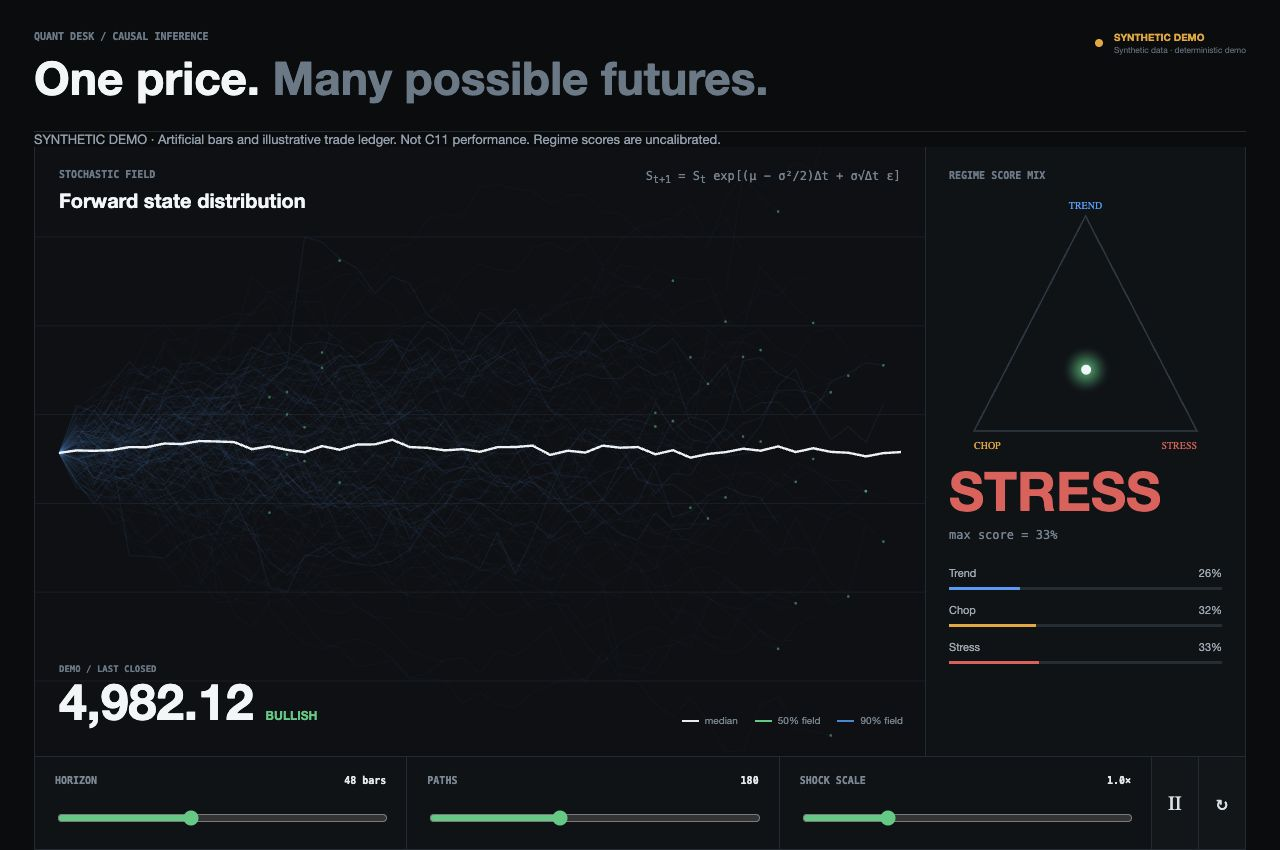
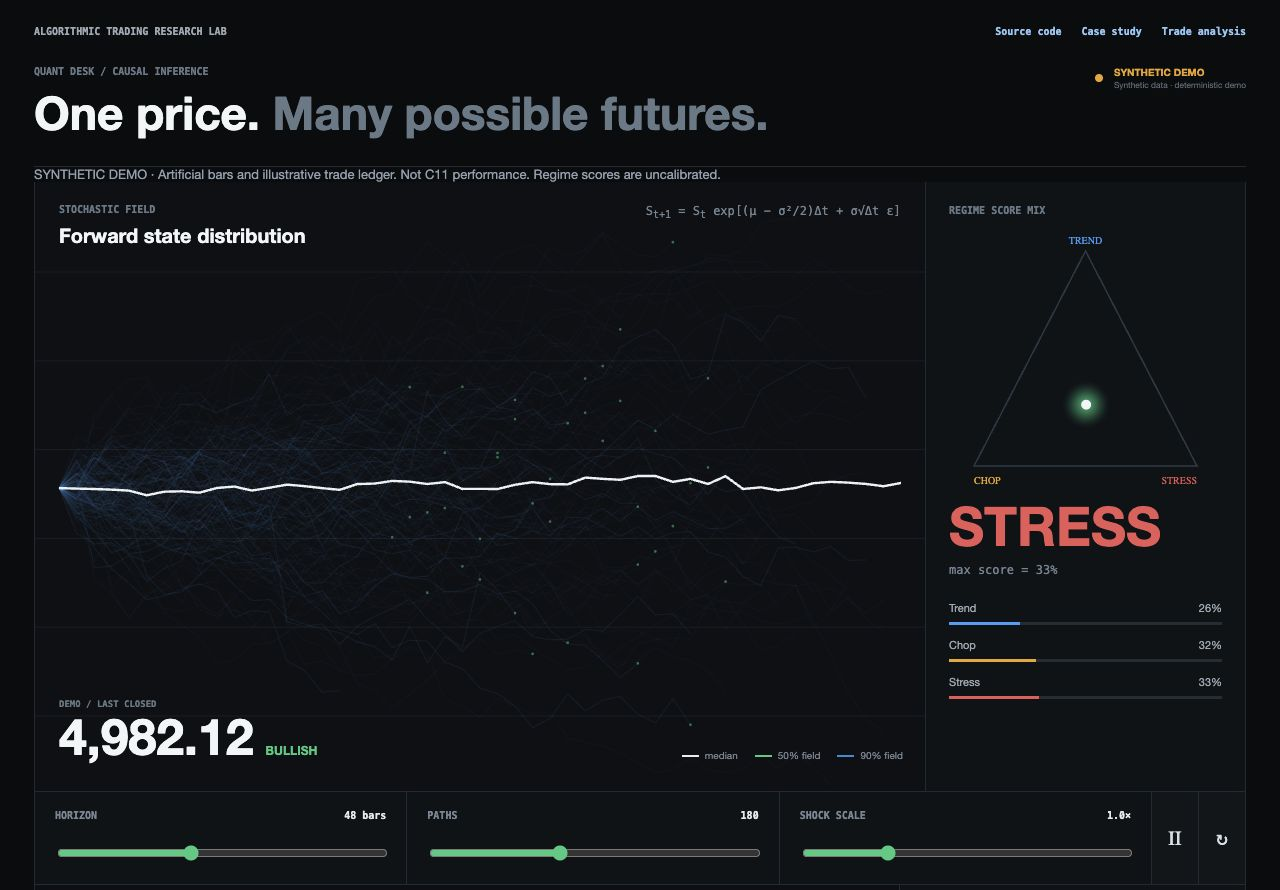
Publish interactive portfolio demo and strategy research walkthrough

diff --git a/dashboard/studio/studio.js b/dashboard/studio/studio.js
@@ -23,8 +23,8 @@ function factorRow(name,value,color,detail){return `<div class="factor-row"><spa
 function updateTrader(){if(!traderPayload)return;let s=traderPayload.stats,b=traderPayload.best_trade,w=traderPayload.worst_trade;$('strategySource').textContent=traderPayload.demo?'SYNTHETIC LEDGER':traderPayload.live?'LIVE TRADINGVIEW':'LOCAL SNAPSHOT';$('strategySource').className=`source-pill ${traderPayload.live?'':'snapshot'}`;$('netPnl').textContent=money(s.net_profit);$('netPnl').style.color=s.net_profit>=0?colors.green:colors.stress;$('netReturn').textContent=`${(100*s.net_profit_percent).toFixed(2)}% return`;$('profitFactor').textContent=s.profit_factor.toFixed(3);$('winRate').textContent=pct(s.win_rate);$('maxDrawdown').textContent=money(-s.max_drawdown);$('maxDrawdownPct').textContent=pct(s.max_drawdown_percent);$('expectancy').textContent=money(s.expectancy);$('sharpe').textContent=s.sharpe==null?'—':s.sharpe.toFixed(2);$('avgWin').textContent=money(s.avg_win);$('avgLoss').textContent=money(s.avg_loss);$('payoff').textContent=`${s.payoff_ratio.toFixed(2)}×`;$('bestPnl').textContent=money(b.pnl);$('bestMeta').textContent=`${b.sleeve} · ${b.direction} · ${b.exit_time.slice(0,10)}`;$('bestExcursion').textContent=`RUN-UP ${money(b.runup)} · DRAW-DOWN ${money(-b.drawdown)} · ${b.bars ?? "—"} BARS`;$('worstPnl').textContent=money(w.pnl);$('worstMeta').textContent=`${w.sleeve} · ${w.direction} · ${w.exit_time.slice(0,10)}`;$('worstExcursion').textContent=`RUN-UP ${money(w.runup)} · DRAW-DOWN ${money(-w.drawdown)} · ${w.bars ?? "—"} BARS`;$('streaks').textContent=`${s.max_win_streak} / ${s.max_loss_streak}`;$('currentStreak').textContent=`CURRENT ${s.current_streak>=0?'WIN':'LOSS'} STREAK ${Math.abs(s.current_streak)}`;$('commission').textContent=money(s.commission);$('recovery').textContent=`RECOVERY FACTOR ${s.recovery_factor.toFixed(2)}× · AVG HOLD ${s.avg_bars.toFixed(1)} BARS`;$('tradeCount').textContent=`${s.trades} CLOSED · ${s.wins} W / ${s.losses} L`;$('sleeveRows').innerHTML=traderPayload.sleeves.map(x=>`<div class="sleeve-row"><span>${x.name}</span><i><b style="width:${Math.min(100,Math.abs(x.pnl)/Math.max(...traderPayload.sleeves.map(y=>Math.abs(y.pnl)))*100)}%;background:${x.pnl>=0?colors.green:colors.stress}"></b></i><strong>${money(x.pnl)} · ${pct(x.win_rate)}</strong></div>`).join('');$('tradeRows').innerHTML=traderPayload.recent_trades.map(x=>`<tr><td>${x.number}</td><td>${x.exit_time.slice(0,16).replace('T',' ')}</td><td>${x.sleeve}</td><td>${x.direction}</td><td>${x.entry_price.toFixed(2)}</td><td>${x.exit_price.toFixed(2)}</td><td>${x.bars ?? "—"}</td><td>${money(x.runup)}</td><td>${money(-x.drawdown)}</td><td class="${x.pnl>=0?'positive':'negative'}">${money(x.pnl)}</td></tr>`).join('');drawEquity();drawDistribution();updateDecisionFactors();}
 function updateDecisionFactors(){if(!payload)return;let s=payload.snapshot,items=[['Trend support',s.trend_probability,colors.trend,pct(s.trend_probability)],['Directional confidence',s.direction_probability,colors.green,pct(s.direction_probability)],['Chop penalty',s.chop_probability,colors.chop,`−${pct(.15*s.chop_probability)}`],['Stress penalty',s.stress_probability,colors.stress,`−${pct(.65*s.stress_probability)}`],['Simulated fragility',fragility,fragility>.35?colors.stress:colors.green,pct(fragility)]];$('decisionFactors').innerHTML=items.map(x=>factorRow(...x)).join('');}
 function updateUI(){let s=payload.snapshot;$('instrumentLabel').textContent=`${payload.symbol} / LAST CLOSED`;$('demoNotice').textContent=payload.demo?'SYNTHETIC DEMO · Artificial bars and illustrative trade ledger. Not C11 performance. Regime scores are uncalibrated.':'Research illustration · Regime scores are uncalibrated; simulated paths are scenarios.';$('price').textContent=s.price.toLocaleString(undefined,{minimumFractionDigits:2,maximumFractionDigits:2});$('direction').textContent=s.direction;$('direction').style.color=s.direction==='BULLISH'?colors.green:colors.stress;$('stateName').textContent=s.state;$('stateName').style.color=colors[s.state.toLowerCase()];$('posterior').textContent=`max score = ${pct(s.confidence)}`;[['trend',s.trend_probability],['chop',s.chop_probability],['stress',s.stress_probability]].forEach(([n,v])=>{$(`${n}Value`).textContent=pct(v);$(`${n}Bar`).style.width=pct(v)});$('directionProbability').textContent=pct(s.direction_probability);$('directionLabel').textContent=s.direction;$('volatility').textContent=pct(s.volatility_percentile);$('exposure').textContent=pct(s.risk_multiplier);$('confidence').textContent=pct(s.confidence);$('timestamp').textContent=`CLOSED ${s.timestamp}`;let fs=$('feedState');fs.className=`feed ${payload.live?'live':'degraded'}`;fs.querySelector('b').textContent=payload.demo?'SYNTHETIC DEMO':payload.live?'LIVE':'SNAPSHOT';fs.querySelector('small').textContent=payload.source;updateDecision();}
-async function poll(){try{let r=await fetch('/api/live',{cache:'no-store'});payload=await r.json();if(!payload.ok)throw Error(payload.error);updateUI();resample();drawSimplex();drawHistory();}catch(e){let fs=$('feedState');fs.className='feed offline';fs.querySelector('b').textContent='OFFLINE';fs.querySelector('small').textContent=e.message;}}
-async function pollTrader(){try{let r=await fetch('/api/trader',{cache:'no-store'});traderPayload=await r.json();if(!traderPayload.ok)throw Error('strategy report unavailable');updateTrader();}catch(e){$('strategySource').textContent='REPORT OFFLINE';$('strategySource').className='source-pill snapshot';}}
+async function poll(){try{let r=await fetch(document.documentElement.dataset.liveUrl || '/api/live',{cache:'no-store'});payload=await r.json();if(!payload.ok)throw Error(payload.error);updateUI();resample();drawSimplex();drawHistory();}catch(e){let fs=$('feedState');fs.className='feed offline';fs.querySelector('b').textContent='OFFLINE';fs.querySelector('small').textContent=e.message;}}
+async function pollTrader(){try{let r=await fetch(document.documentElement.dataset.traderUrl || '/api/trader',{cache:'no-store'});traderPayload=await r.json();if(!traderPayload.ok)throw Error('strategy report unavailable');updateTrader();}catch(e){$('strategySource').textContent='REPORT OFFLINE';$('strategySource').className='source-pill snapshot';}}
 ['horizon','paths','shock'].forEach(id=>$(id).addEventListener('input',()=>{$(`${id}Out`).textContent=id==='horizon'?`${$(id).value} bars`:id==='shock'?`${(+$(id).value/100).toFixed(1)}×`:$(id).value;resample();}));
 $('play').onclick=()=>{running=!running;$('play').textContent=running?'Ⅱ':'▶';$('play').setAttribute('aria-label',running?'Pause animation':'Resume animation');};$('resample').onclick=resample;
 document.querySelectorAll('.range-control button').forEach(button=>button.onclick=()=>{document.querySelectorAll('.range-control button').forEach(x=>x.classList.remove('active'));button.classList.add('active');equityRange=button.dataset.range;drawEquity();});

diff --git a/dashboard/studio/index.html b/dashboard/studio/index.html
@@ -3,13 +3,15 @@
 <head>
   <meta charset="utf-8">
   <meta name="viewport" content="width=device-width,initial-scale=1">
-  <meta name="application-name" content="ES Probability Studio">
+  <meta name="application-name" content="Algorithmic Trading Research Lab">
+  <meta name="description" content="Python and Pine Script strategy research, execution modeling, and interactive risk analysis. Explore a reproducible synthetic-data dashboard.">
   <meta name="apple-mobile-web-app-capable" content="yes">
-  <title>ES Probability Studio</title>
+  <title>Algorithmic Trading Research Lab: Python &amp; Pine Script</title>
   <link rel="stylesheet" href="/studio-assets/studio.css?v=5">
 </head>
 <body>
   <div id="app" role="application">
+    <nav class="portfolio-nav" aria-label="Project navigation"><span>ALGORITHMIC TRADING RESEARCH LAB</span><div><a href="https://github.com/jnaggud/quant-research-lab">Source code</a><a href="https://github.com/jnaggud/quant-research-lab/blob/main/docs/portfolio-case-study.md">Case study</a><a href="#performance">Trade analysis</a></div></nav>
     <header>
       <div>
         <div class="eyebrow">QUANT DESK / CAUSAL INFERENCE</div>

diff --git a/dashboard/studio/studio.css b/dashboard/studio/studio.css
@@ -2,6 +2,10 @@
 * { box-sizing:border-box; }
 body { margin:0; background:#06090c; overflow-x:hidden; }
 #app { max-width:1720px; min-height:100vh; margin:auto; padding:24px 34px 42px; }
+.portfolio-nav { display:flex; justify-content:space-between; flex-wrap:wrap; gap:14px; padding-bottom:20px; color:#a8b3bc; font:700 10px/1.5 ui-monospace,SFMono-Regular,Menlo,monospace; }
+.portfolio-nav div { display:flex; gap:20px; flex-wrap:wrap; }
+.portfolio-nav a { color:#9acff5; text-decoration:none; }
+.portfolio-nav a:hover, .portfolio-nav a:focus-visible { color:#fff; text-decoration:underline; }
 header { min-height:108px; display:flex; justify-content:space-between; align-items:flex-start; border-bottom:1px solid #25303a; padding:7px 0 24px; }
 .eyebrow { color:#738491; font:700 10px/1.2 ui-monospace,SFMono-Regular,Menlo,monospace; }
 h1 { margin:12px 0 0; font-size:46px; line-height:1; font-weight:630; letter-spacing:0; }

diff --git a/dashboard/export_demo.py b/dashboard/export_demo.py
@@ -1,0 +1,49 @@
+"""Export the synthetic studio as a static site with no server or credentials."""
+from __future__ import annotations
+
+import argparse
+import json
+from pathlib import Path
+import shutil
+
+from dashboard.demo import live_payload, synthetic_report
+from dashboard.trader_metrics import summarize_report
+
+
+def export_site(output: Path) -> None:
+    """Write only public assets and freshly generated synthetic payloads."""
+    studio = Path(__file__).resolve().parent / "studio"
+    output = output.resolve()
+    if output == studio or studio in output.parents:
+        raise ValueError("Export into a separate directory, not the studio source.")
+    assets = output / "studio-assets"
+    assets.mkdir(parents=True, exist_ok=True)
+    for name in ("studio.css", "studio.js"):
+        shutil.copyfile(studio / name, assets / name)
+    html = (studio / "index.html").read_text()
+    html = html.replace('<html lang="en">', '<html lang="en" data-live-url="./fixtures/live.json" data-trader-url="./fixtures/trader.json">')
+    html = html.replace('"/studio-assets/', '"./studio-assets/')
+    (output / "index.html").write_text(html)
+    fixtures = output / "fixtures"
+    fixtures.mkdir(exist_ok=True)
+    report = synthetic_report()
+    payloads = {
+        "live": live_payload(),
+        "trader": {"ok": True, "live": False, "demo": True,
+                   "source": "Synthetic ledger · illustrative results",
+                   "strategy": report["source"]["name"], **summarize_report(report)},
+    }
+    for name, payload in payloads.items():
+        (fixtures / f"{name}.json").write_text(json.dumps(payload, allow_nan=False))
+
+
+def main() -> None:
+    parser = argparse.ArgumentParser(description=__doc__)
+    parser.add_argument("--output", type=Path, required=True)
+    args = parser.parse_args()
+    export_site(args.output)
+    print(f"Synthetic demo exported to {args.output.resolve()}")
+
+
+if __name__ == "__main__":
+    main()

diff --git a/tests/test_demo.py b/tests/test_demo.py
@@ -1,5 +1,6 @@
 """Public demo checks: offline operation, data integrity, and report reconciliation."""
 import subprocess
+import json
 import numpy as np
 import pytest
 from dashboard.demo import synthetic_bars, synthetic_report
@@ -43,3 +44,24 @@ def test_live_mode_does_not_silently_substitute_demo(monkeypatch):
     report = app.test_client().get("/api/trader").get_json()
     assert not report["ok"] and not report["live"]
     assert not report.get("demo")
+
+
+def test_static_export_keeps_synthetic_inputs_even_in_live_environment(tmp_path, monkeypatch):
+    from dashboard.export_demo import export_site
+    monkeypatch.setenv("DASHBOARD_MODE", "live")
+    private_report = tmp_path / "private.json"
+    private_report.write_text('{"private_marker": "must-not-be-published"}')
+    monkeypatch.setenv("QUANT_TV_REPORT_FILE", str(private_report))
+    output = tmp_path / "site"
+    export_site(output)
+    html = (output / "index.html").read_text()
+    assert 'data-live-url="./fixtures/live.json"' in html
+    assert 'data-trader-url="./fixtures/trader.json"' in html
+    assert '"/studio-assets/' not in html
+    for name in ("live", "trader"):
+        text = (output / "fixtures" / f"{name}.json").read_text()
+        payload = json.loads(text)
+        assert payload["ok"] and payload["demo"] and not payload["live"]
+        assert "must-not-be-published" not in text
+    assert (output / "studio-assets" / "studio.js").exists()
+    assert (output / "studio-assets" / "studio.css").exists()

diff --git a/docs/portfolio-walkthrough.md b/docs/portfolio-walkthrough.md
@@ -1,0 +1,20 @@
+# Portfolio walkthrough
+
+**Title:** Algorithmic Trading Research Lab: Python & Pine Script
+
+The 75-second captioned walkthrough uses captures of the working synthetic demo. It shows the interface and its controls; the public repository contains the broader research and Pine Script implementation.
+
+## Sequence and narration script
+
+| Time | View | Narration |
+| --- | --- | --- |
+| 0–12.5s | Research studio | This is Algorithmic Trading Research Lab, a Python and Pine Script toolkit for turning trading ideas into reproducible experiments. This dashboard runs on synthetic bars and an artificial trade ledger. |
+| 12.5–25s | Horizon and path controls | The interactive studio lets you change the simulation horizon and number of paths. It provides a visual way to explore model assumptions alongside the underlying research. |
+| 25–37.5s | Shock scale | Increasing the shock scale changes the scenario paths and their measured fragility. These are simulated scenarios, not forecasts or evidence of a profitable strategy. |
+| 37.5–50s | Regime and decision view | The dashboard exposes regime scores and decision attribution. Synthetic inputs keep the posture at observe only, and the interface makes the model's limitations visible. |
+| 50–62.5s | Trader statistics | Trade analysis includes net results, drawdown, outcome distributions, sleeve attribution, and the closed-trade ledger. The negative demo results are artificial and illustrate the reporting interface. |
+| 62.5–75s | Repository and validation | The public source includes Pine Script strategies, Python research pipelines, execution-parity checks, automated tests, and dated validation reports. These components demonstrate work I can adapt to a client's documented requirements. |
+
+## Publication notes
+
+Use the dashboard image as the portfolio cover. Attach the captioned MP4 where video uploads are supported, or use the repository release link. The narration script is available for a separate recording in the owner's own voice; no voice impersonation is used in the captioned video.

diff --git a/docs/portfolio-case-study.md b/docs/portfolio-case-study.md
@@ -1,4 +1,4 @@
-# Quant Research Lab — portfolio case study
+# Algorithmic Trading Research Lab: Python & Pine Script
 
 **Role:** Python and Pine Script development, quantitative research tooling, data pipelines, and dashboard implementation.
 
@@ -16,8 +16,18 @@ A research toolkit that connects strategy development to execution checks and ri
 
 ## Short portfolio description
 
-Built a Python and Pine Script quantitative research toolkit with TradingView execution-parity checks, walk-forward experiments, portfolio stress testing, and interactive dashboards. Added reproducible setup, automated tests, and a synthetic-data demo that runs without paid market data or API credentials.
+Built a Python and Pine Script research platform for developing and testing TradingView strategies. Implemented execution modeling, parity checks, walk-forward experiments, portfolio stress tests, and an interactive dashboard. Packaged a reproducible synthetic-data demo and automated validation with GitHub Actions. The project demonstrates a workflow from strategy rules and data pipelines to documented research results and visual analysis.
 
 **Skills:** Python, Pine Script, Flask, JavaScript, pandas, NumPy, quantitative research, data engineering, automated testing.
 
+**Interactive demo:** https://algorithmic-trading-research-lab.jnaggud.chatgpt.site
+
+**Walkthrough:** https://github.com/jnaggud/quant-research-lab/releases/tag/portfolio-demo-v1
+
 **Repository:** https://github.com/jnaggud/quant-research-lab
+
+## Client applications
+
+The same engineering approach applies to Pine Script strategy implementation, Python backtesting, financial-data processing, and custom analytics dashboards. A typical engagement can start with one documented strategy and a small reference dataset, then expand after the implementation and its assumptions are validated.
+
+This is an independent portfolio project. The public demonstration uses artificial data; it does not represent a client engagement or establish live trading performance.

diff --git a/README.md b/README.md
@@ -1,4 +1,4 @@
-# Quant Research Lab
+# Algorithmic Trading Research Lab: Python & Pine Script
 
 [![Tests](https://github.com/jnaggud/quant-research-lab/actions/workflows/tests.yml/badge.svg)](https://github.com/jnaggud/quant-research-lab/actions/workflows/tests.yml)
 ![Python](https://img.shields.io/badge/Python-3.10%20%7C%203.12-3776AB)
@@ -25,6 +25,10 @@ Built by [Jefferson Duggan](https://github.com/jnaggud). The project combines Py
 
 ## Try the demo
 
+**[Open the interactive demo](https://algorithmic-trading-research-lab.jnaggud.chatgpt.site)** · **[Watch the 75-second walkthrough](https://github.com/jnaggud/quant-research-lab/releases/tag/portfolio-demo-v1)**
+
+The hosted dashboard is a static export of the Python-generated synthetic fixtures. No sign-in is needed. To run the Python server locally:
+
 Use Python 3.10 or 3.12. No API keys, TradingView connection, Node.js, or market-data subscription are needed for the demo.
 
 ```bash
@@ -43,6 +47,15 @@ On Windows, activate the environment with `.venv\Scripts\Activate.ps1`. Use `--p
 ```bash
 python -m dashboard.demo --output data/demo
 ```
+
+To generate the standalone website locally:
+
+```bash
+python -m dashboard.export_demo --output dist/demo
+python -m http.server 8060 --directory dist/demo
+```
+
+The exporter always uses synthetic inputs, including when live-mode environment variables are set.
 
 ## Run the research checks
 
